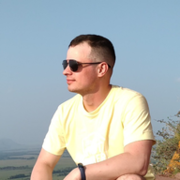
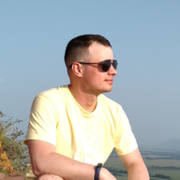
feat: mirror profile image
The profile image and favicons are fliped horizontally (mirrored) and the previous style that performed this task is corrected

diff --git a/app/components/Aside/aside.module.scss b/app/components/Aside/aside.module.scss
@@ -30,7 +30,7 @@
 		height: auto;
 		max-width: 100%;
 
-		@at-root :root:not([dir="rtl"]) & {
+		@at-root :root[dir="rtl"] & {
 			transform: scale(-1, 1); // Flip X
 		}
 	}
